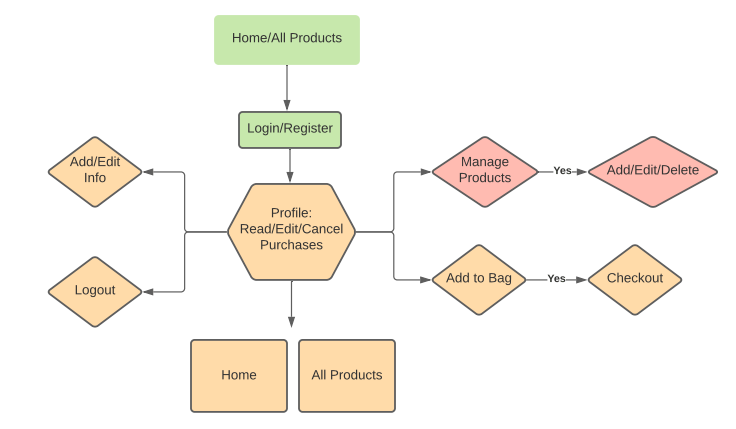
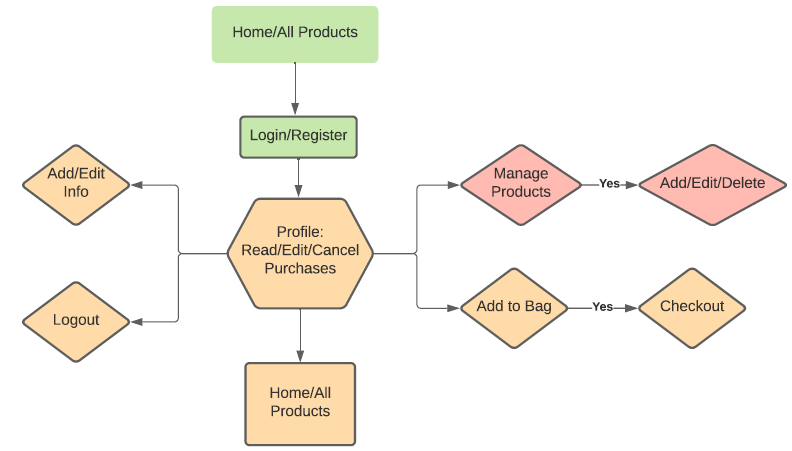
Updated flowcharts and mockup images

diff --git a/README.md b/README.md
@@ -44,7 +44,7 @@ Sportsporium is an online sports emporium to buy men's footwear, clothing and sp
 
 ## Demo
 Please click on the image to open link in a new browser window.<br><br>
-![Image](readme-assets/images/Mockups.PNG) 
+![Image](readme-assets/images/mockups.png)
 
 A live demo can be found - [here](https://rs87801-sportsporium.herokuapp.com/)
 
@@ -237,8 +237,6 @@ I would like to add the followung features
 #### Flowchart
 - Flowchart created using [Lucidchart](https://www.lucidchart.com):<br><br>
     ![Image](readme-assets/images/Flowcharts.png)<br><br>
-
-    
 
 ### Skeleton
 #### Wireframe mock ups
@@ -465,4 +463,5 @@ To deploy this app on Heroku, the following steps were taken:
 ## Acknowledgements
 I would like to thank:
 - My mentor, **Caleb Mbakwe**, for his guidance, valuable feedbacks, and encouragement throughout the project.
+- Code Institute Tutor Support team for help. 
 ***
